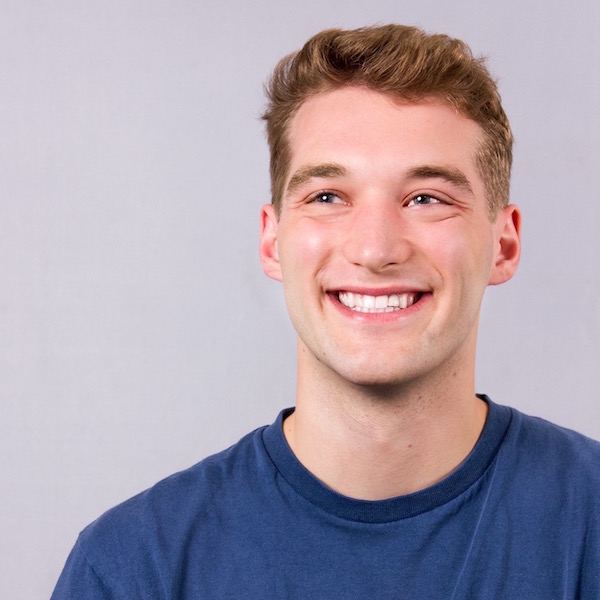
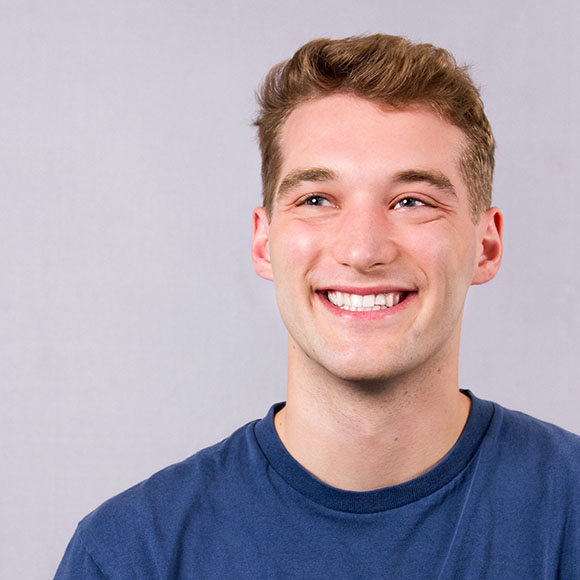
FINALLY got responsive images perfectly done
Created a few includes for responsive images using jekyll assets and webp/sizing automatically. Use {% include picture.html src=“image-name” alt=“alt text” %} to get an image

diff --git a/src/_includes/picture.html b/src/_includes/picture.html
@@ -1,0 +1,50 @@
+{% comment %}
+/**
+ * This template is very configurable and very confusing! It allows for
+ * responsive images with a simple include. The minimum required content
+ * is `src`, or the basename of the file you want to include, and `alt`,
+ * the alt text for the images.
+ *
+ * if you provide a `sizes` array, you can specify which of `lg`, `md`,
+ * and `sm` image you want, with breakpoints supported for each. Phones will
+ * show the `src-sm` image, tablets will show `src-md`, and desktop will
+ * show `src`. The fallback will always be desktop sized. `lg` is on by
+ * default.
+ *
+ * All images will have a webp & jpg version for each item. Autogenerate
+ * with the image processing script.
+ */
+{% endcomment %}
+{% assign sizes = include.sizes | default: 'sm' %}
+<picture>
+	{% if sizes contains 'lg' %}
+	<!-- Desktop images -->
+	{% assign bp = site.breakpoint_min_desktop %}
+	{% assign file = include.src | append: '-lg' %}
+	{% include picture-element.html type="webp" src=file alt=include.alt bp=bp %}
+	{% include picture-element.html type="jpg" src=file alt=include.alt bp=bp %}
+	{% endif %}
+
+	{% if sizes contains 'md' %}
+	<!-- Tablet images -->
+	{% assign bp = site.breakpoint_min_tablet %}
+	{% assign file = include.src | append: '-md' %}
+	{% include picture-element.html type="webp" src=file alt=include.alt bp=bp %}
+	{% include picture-element.html type="jpg" src=file alt=include.alt bp=bp %}
+	{% endif %}
+
+	{% if sizes contains 'sm' %}
+	{% if include.sizes contains 'sm' %}
+	<!-- Phone images -->
+	{% endif %}
+	{% unless include.sizes contains 'sm' %}
+	<!-- Fallback fullsize images -->
+	{% endunless %}
+	{% assign file = include.src %}
+	{% include picture-element.html type="webp" src=file alt=include.alt %}
+	{% include picture-element.html type="jpg" src=file alt=include.alt %}
+	{% endif %}
+
+	<!-- Fallback: desktop-sized jpg -->
+	<img type="image/jpeg" src={% asset {{include.src}}.jpg @path %} alt="{{ include.alt }}">
+</picture>

diff --git a/src/_includes/intro.html b/src/_includes/intro.html
@@ -1,30 +1,5 @@
 <section class="intro">
-	{% asset dg-portrait.jpg class="portrait" alt="Portrait of Dylan Gattey" @pic
-	srcset:min-width="900 2x"
-    srcset:min-width="601 1.5x"
-    srcset:="1x"
-    %}
-    <!-- TODO: Emulate the below: differently sized images for the different px resolutions, webp, and a fallback -->
-    <!-- <picture>
-	 <source
-	   media="(min-width: 900px)"
-	   srcset="image-lg_1x.webp 1x, image-lg_2x.webp 2x"
-	   type="image/webp" >
-	 <source
-	   media="(min-width: 601px)"
-	   srcset="image-md_1x.webp 1x, image-md_2x.webp 2x"
-	   type="image/webp" >
-	 <source
-	   srcset="image-sm_1x.webp 1x, image-sm_2x.webp 2x"
-	   type="image/webp" >
-	 <img 
-	   srcset="image-sm_1x.jpg 600w,
-	   image-md_1x.jpg 900w,
-	   image-lg_1x.jpg 1440w"
-	   src="image_lg_1x.jpg"
-	   type="image/jpeg"
-	   alt="image description">
-	</picture> -->
+	{% include picture.html src="dg-portrait" alt="Portrait of Dylan Gattey" %}
 	<h1 class="emphasized title">Hello! I'm Dylan.</h1>
 	<p class="emphasized detail">I'm a full-stack software engineer + technical lead working for LinkedIn in San Francisco, passionate about well-designed interfaces and clean code.</p>
 </section>

diff --git a/src/_includes/picture-element.html b/src/_includes/picture-element.html
@@ -1,0 +1,20 @@
+{% comment %}
+/**
+ * This template helps in creating the overall responsive picture template.
+ * Pass in the (optional) `bp` for min width media query, the (required)
+ * `type`, the (required) `src` for the base filename, and the alt text
+ * (required) and we'll take care of the rest
+ */
+{% endcomment %}
+{% if include.type == "jpg" %}
+	{% assign mimetype = "jpeg" %}
+{% else %}
+	{% assign mimetype = include.type %}
+{% endif %}
+<source
+	{% if include.bp %}
+	media="(min-width: {{ include.bp }})"
+	{% endif %}
+	srcset="{% asset {{include.src}}.{{include.type}} @path %} 1x, {% asset {{include.src}}@2x.{{include.type}} @path %} 2x"
+	type="image/{{mimetype}}"
+	alt="{{ include.alt }}">
